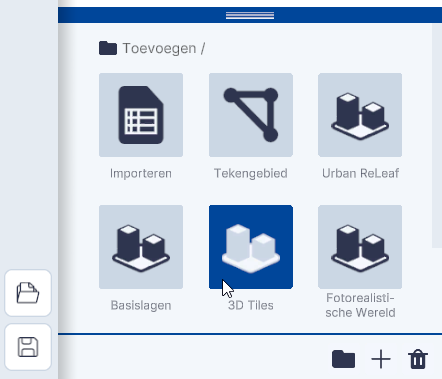
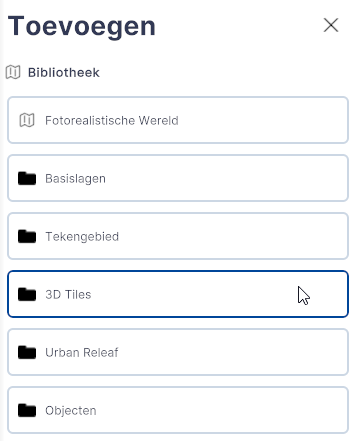
bibliotheek

diff --git a/docs/docs/handleiding/toevoegen-3d-tiles.md b/docs/docs/handleiding/toevoegen-3d-tiles.md
@@ -22,9 +22,9 @@ Met de functie Tiles kunnen 3D Tiles uit twee voorgedefinieerde lagen worden gek
 
 ---
 
-### Gebouwen (3D tiles)
+### Gebouwen (3D Tiles)
 
-Met `Gebouwen (3D tiles)` worden gebouwen uit de 
+Met `Gebouwen (3D Tiles)` worden gebouwen uit de 
 [3D Basisvoorziening van het Kadaster](https://www.pdok.nl/introductie/-/article/3d-basisvoorziening-1) gekoppeld.  
 
 ![Building Blocks](../handleiding/imgs/lagen.toevoegen.3d.tiles.gebouwen.png)  
@@ -34,9 +34,9 @@ Met `Gebouwen (3D tiles)` worden gebouwen uit de
 
 ---
 
-### Maaiveld (3D tiles)
+### Maaiveld (3D Tiles)
 
-Met `Maaiveld (3D tiles)` wordt het maaiveld uit de 
+Met `Maaiveld (3D Tiles)` wordt het maaiveld uit de 
 [3D Basisvoorziening van het Kadaster](https://www.pdok.nl/introductie/-/article/3d-basisvoorziening-1) gekoppeld.
 
 ![Building Blocks](../handleiding/imgs/lagen.toevoegen.3d.tiles.maaiveld.png)  
@@ -48,7 +48,7 @@ Met `Maaiveld (3D tiles)` wordt het maaiveld uit de
 
 #### Referentiehoogte aanpassen
 
-3D-Tile lagen kunnen op een verkeerde hoogte liggen. We hebben daarvoor een instelling gemaakt die je bij het eigenschappenpaneel kan activeren. Als standaard staat deze ingesteld op Ellipsoïde. Heb je een laag die op een verkeerde hoogte ligt, klik dan op één van de 2 mogelijkheden.
+3D Tile lagen kunnen op een verkeerde hoogte liggen. We hebben daarvoor een instelling gemaakt die je bij het eigenschappenpaneel kan activeren. Als standaard staat deze ingesteld op Ellipsoïde. Heb je een laag die op een verkeerde hoogte ligt, klik dan op één van de 2 mogelijkheden.
 <br>
 
 ![Building Blocks](../handleiding/imgs/lagen.toevoegen.3d.tiles.url.ellipsoide.png)  
@@ -64,4 +64,11 @@ Met `Maaiveld (3D tiles)` wordt het maaiveld uit de
 <br>
 
 !!! tip "Uitleg Referentiehoogte"
-    De hoogte van een 3D-tiles laag kan op twee manieren gemeten worden, ten opzichte van de ellipsoïde of de geoïde. De referentiehoogte van de geoïde ligt (voor Nederland) tussen de 41 en 44 meter boven de ellipsoïde. Voor meer informatie, zie deze site [Uitleg Geoïde/ellipsoïde](https://3dtilesnederland.nl/over-terrein-en-3d-tilesets)
+    De hoogte van een 3D Tiles laag kan op twee manieren gemeten worden, ten opzichte van de ellipsoïde of de geoïde. De referentiehoogte van de geoïde ligt (voor Nederland) tussen de 41 en 44 meter boven de ellipsoïde. Voor meer informatie, zie deze site [Uitleg Geoïde/ellipsoïde](https://3dtilesnederland.nl/over-terrein-en-3d-tilesets)
+
+Daarnaast kan je 3D Tiles lagen ook koppelen via het importeren menu, als bestand of als link naar een url met 3D Tiles data.
+
+![Building Blocks](../handleiding/imgs/lagen.toevoegen.3d.tiles.custom.png)  
+/// caption
+(Afbeelding) Referentiehoogte op Geoïde
+///

diff --git a/docs/docs/handleiding/bibliotheek-basis.md b/docs/docs/handleiding/bibliotheek-basis.md
@@ -1,10 +1,10 @@
-# 3D Tiles
+# Bibliotheek
 
 Functies, Lagen, submenu.  
   
-![Building Blocks](../handleiding/imgs/lagen.toevoegen.menu.3d.tiles.png) 
+![Building Blocks](../handleiding/imgs/toevoegen-activeren-bibliotheek.png) 
 /// caption
-(Afbeelding) Toevoegen / 3D Tiles
+(Afbeelding) Activeren Bibliotheek
 ///
 
 ---
@@ -13,55 +13,15 @@ Functies, Lagen, submenu.
 
 ### Menu
 
-Met de functie Tiles kunnen 3D Tiles uit twee voorgedefinieerde lagen worden gekoppeld.  
+Via de bibliotheek kan je alle beschikbare objecten, tekengebieden, datasets en catalogi direct benaderen.
 
-![Building Blocks](../handleiding/imgs/lagen.toevoegen.3d.tiles.menu.png)
+![Building Blocks](../handleiding/imgs/toevoegen-bibliotheek.png)
 /// caption
-(Afbeelding) Toevoegen / 3D Tiles
+(Afbeelding) Bibliotheek
 ///
 
 ---
+Daarnaast kan je via de **+** knop eigen datasets importeren, of catalogi aan de bibliotheek toevoegen.
 
-### Gebouwen (3D tiles)
+[Importeren (link)](toevoegen-importeren.md)
 
-Met `Gebouwen (3D tiles)` worden gebouwen uit de 
-[3D Basisvoorziening van het Kadaster](https://www.pdok.nl/introductie/-/article/3d-basisvoorziening-1) gekoppeld.  
-
-![Building Blocks](../handleiding/imgs/lagen.toevoegen.3d.tiles.gebouwen.png)  
-/// caption
-(Afbeelding) Gebouwen (3D Tiles)
-///
-
----
-
-### Maaiveld (3D tiles)
-
-Met `Maaiveld (3D tiles)` wordt het maaiveld uit de 
-[3D Basisvoorziening van het Kadaster](https://www.pdok.nl/introductie/-/article/3d-basisvoorziening-1) gekoppeld.
-
-![Building Blocks](../handleiding/imgs/lagen.toevoegen.3d.tiles.maaiveld.png)  
-/// caption
-(Afbeelding) Maaiveld en Gebouwen (3D Tiles)
-///
-
----
-
-#### Referentiehoogte aanpassen
-
-3D-Tile lagen kunnen op een verkeerde hoogte liggen. We hebben daarvoor een instelling gemaakt die je bij het eigenschappenpaneel kan activeren. Als standaard staat deze ingesteld op Ellipsoïde. Heb je een laag die op een verkeerde hoogte ligt, klik dan op één van de 2 mogelijkheden.
-<br>
-
-![Building Blocks](../handleiding/imgs/lagen.toevoegen.3d.tiles.url.ellipsoide.png)  
-/// caption
-(Afbeelding) Referentiehoogte op Ellipsoïde
-///
-<br>
-
-![Building Blocks](../handleiding/imgs/lagen.toevoegen.3d.tiles.url.geoide.png)  
-/// caption
-(Afbeelding) Referentiehoogte op Geoïde
-///
-<br>
-
-!!! tip "Uitleg Referentiehoogte"
-    De hoogte van een 3D-tiles laag kan op twee manieren gemeten worden, ten opzichte van de ellipsoïde of de geoïde. De referentiehoogte van de geoïde ligt (voor Nederland) tussen de 41 en 44 meter boven de ellipsoïde. Voor meer informatie, zie deze site [Uitleg Geoïde/ellipsoïde](https://3dtilesnederland.nl/over-terrein-en-3d-tilesets)
